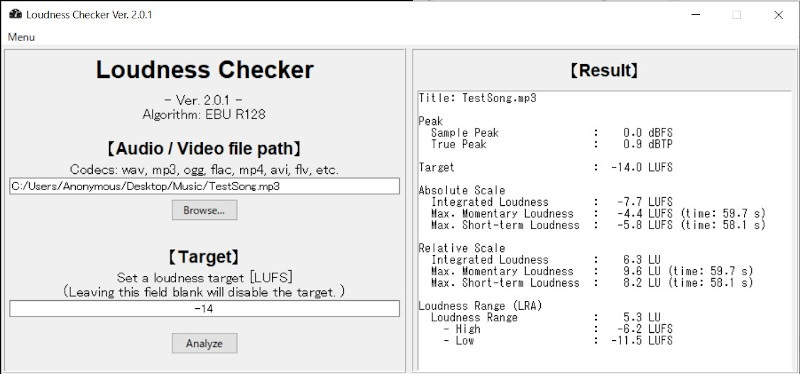
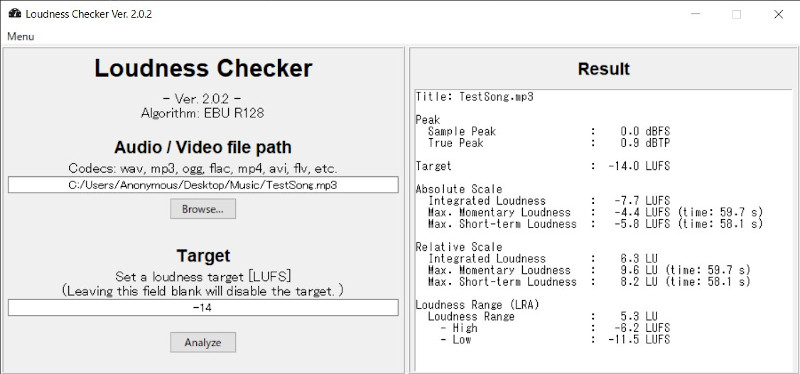
update_V2.0.1 to V2.0.2

diff --git a/src/Help.html b/src/Help.html
@@ -3,17 +3,16 @@
 <head>
     <meta charset="UTF-8">
     <meta name="viewport" content="width=device-width, initial-scale=1.0">
-    <title>How To Use Loudness Checker Ver. 2.0.1</title>
+    <title>How To Use Loudness Checker Ver. 2.0.2</title>
     <link rel="shortcut icon" href="icon.ico">
     <link rel="stylesheet" type="text/css" href="src_html\default.css">
 </head>
 <body>
-    <h1><center>How To Use Loudness Checker Ver. 2.0.1</center></h1>
+    <h1><center>How To Use Loudness Checker Ver. 2.0.2</center></h1>
     <h2>What is Loudness Checker?</h2>
     <br>
     <img src="icon.ico" title="icon">
     <p><b>"Loudness checker"</b> とは、入力された音声/映像のピークやラウドネス（アルゴリズム：EBU R128）を測定するWiodows専用アプリケーションです。</p>
-    <p>本アプリは、プログラミング言語 <b>Python 3.6.4</b>、およびそのグラフ描写ライブラリである <b>Matplotlib 2.2.2</b> によって制作されています。</p>
     <br>
     <p>本アプリはラウドネスの測定に <b><a href="https://www.ffmpeg.org/" target="_blank">FFmpeg</a></b> を必要とします。</p>
     <p>FFmpegとは、the FFmpeg developersが開発したフリーのクロスプラットフォーム・マルチメディアフレームワークであり、動画や音声の再生・記録・デコード・エンコード等の処理が行えます。</p>
@@ -113,6 +112,9 @@
     <h4>・グラフについて</h4>
     <br>
     <img src="src_html\Plot.jpg" title="Plot">
+    <br>
+    <small>Powered by matplotlib 3.1.3</small>
+    <br>
     <p>縦軸がラウドネス[LUFS]、横軸が時間[s]を表しています。</p>
     <p>グラフの色分けは以下の通りです。</p>
     <p><b>- 黒点線: Target</b></p>
@@ -138,4 +140,5 @@
     <br>
 </body>
 <small><center>Copyright (c) 2020 Ippee</center></small>
+<small><center>Released under <a href="https://github.com/ippee/LoudnessChecker/blob/master/LICENSE">the MIT license</a>.</center></small>
 </html>

diff --git a/LoudnessChecker.py b/LoudnessChecker.py
@@ -1,5 +1,20 @@
 # coding: UTF-8
 
+# 
+# LoudnessChecker.py
+#
+# Copyright (c) 2020 Ippee
+#
+# Released under the MIT license.
+# see https://github.com/ippee/LoudnessChecker/blob/master/LICENSE
+# 
+# Python 3.6.4 is:
+# PSF LICENSE AGREEMENT FOR PYTHON 3.6.10 | https://docs.python.org/3.6/license.html
+# 
+# Matplotlib 3.1.3 is:
+# License agreement for matplotlib 3.1.3 | https://matplotlib.org/users/license.html
+# 
+
 import sys
 import re
 import os
@@ -12,53 +27,40 @@ import tkinter.messagebox as messagebox
 import matplotlib.pyplot as plt
 from matplotlib import rcParams
 
-ver = "Ver. 2.0.1"
+ver = "Ver. 2.0.2"
 
 
-# matplotlibのフォント設定（参考: https://qiita.com/yniji/items/3fac25c2ffa316990d0c）
+# matplotlibのフォント設定
 rcParams['font.family'] = 'sans-serif' # フォント設定
-rcParams['font.sans-serif'] = ['Hiragino Maru Gothic Pro', 'Yu Gothic', 'Meirio', 'Takao', 'IPAexGothic', 'IPAPGothic', 'VL PGothic', 'Noto Sans CJK JP']
+rcParams['font.sans-serif'] = ['Yu Gothic', 'Meiryo', 'Arial', 'Hiragino Maru Gothic Pro'] # 万が一、Macで動かそうとする人がいた用に
 
 
-# リソースファイルを参照する関数（参考: https://qiita.com/firedfly/items/f6de5cfb446da4b53eeb）
+# リソースファイルを参照する関数
 def resource_path(relative_path):
     if hasattr(sys, '_MEIPASS'):
         return os.path.join(sys._MEIPASS, relative_path)
-    return os.path.join(os.path.abspath("."), relative_path)
+    return os.path.abspath(relative_path)
 
 
 # 文字列がfloatに変換できるかどうかを判断する関数（入力されたTargetが適切かをチェックするため）
-# 参考: https://hibiki-press.tech/learn_prog/python/isdigit/899
 def is_float(s):
-  try:
-    float(s)
-  except:
-    return False
-  return True
-
-# URLを開く
-def callback(url):
-        webbrowser.open_new(url)
+        try:
+                float(s)
+        except:
+                return False
+        return True
 
 
 ### ログ編集に使う関数 ###
 # キーワードをファイル名に含むファイルの一覧を取得
-# 参考: https://note.nkmk.me/python-os-basename-dirname-split-splitext/
 def searchFile(keyword):
-        dir = os.getcwd()
-        files = []
-        getfiles=[]
-        
-        # 同じディレクトリにある全ファイルの名前を取得
-        for name in os.listdir(dir):
-                if os.path.isfile(os.path.join(dir, name)):
-                        files.append(name)
+        key_re = re.compile(r"(" + keyword + r")") # 正規表現に変換
+        folders = os.listdir(os.getcwd()) # カレントディレクトリにあるファイル全部Get
+        getfiles = []
 
-        # そのうち、キーワードを含むものだけをリストアップ
-        regex = re.compile(r"(" + keyword + r")")
-        for name in files:
-                if regex.search(name):
-                        getfiles.append(name)
+        for x in folders:
+                if key_re.search(x):
+                        getfiles.append(x)
         return getfiles
 
 # ファイルの読み込み
@@ -78,13 +80,13 @@ def checkSize(size, logfile):
         else:
                 return False
 
-# 指定した文字列を消す（参考: https://note.nkmk.me/python-str-replace-translate-re-sub/）
+# 指定した文字列を消す
 def deleteStr(strings, *delList):
         for i in delList:
                 strings = strings.replace(i, "")
         return strings
 
-# 文字列中のアルファベットを消す（参考: 同上）
+# 文字列中のアルファベットを消す
 def deleteAlphabet(strings):
         strings = re.sub(r"[a-z]", "", strings)
         strings = re.sub(r"[A-Z]", "", strings)
@@ -107,8 +109,7 @@ def adjustSpace(str):
 
 
 ### GUI作成 ###
-# 参考: https://suzutaka-programming.com/tkinter-filedialog/
-class FiledialogSampleApp(ttk.Frame):
+class LoudnessCheckerGUI(ttk.Frame):
         def __init__(self, app):
                 super().__init__(app)
                 self.pack()
@@ -122,35 +123,26 @@ class FiledialogSampleApp(ttk.Frame):
 
                 # ウィジェット用変数を定義
                 self.filename = tk.StringVar() # 入力したパスを入れる変数
-                self.target = tk.StringVar() # Relative LoudnessのTargetを入れる変数
+                self.target = tk.StringVar() # Targetを入れる変数
                 self.target.set(self.setting[1])
-                self.setDir = os.getcwd() # カレントディレクトリ取得
+                self.setDir = os.getcwd() # カレントディレクトリ取得、ダイアログの表示に使う
 
 
-                # 画面の分割（参考: https://qiita.com/nanako_ut/items/b5393363b9e21d6342ea）
-                pw_main = tk.PanedWindow(self, sashwidth=4, orient="horizontal")
-                pw_main.pack(expand=True, fill=tk.BOTH, side="top")
+                # 画面の分割
+                pw_main = tk.PanedWindow(self, sashwidth=4, orient="horizontal") # ペインドウインドウ作る
+                pw_main.pack(side="top", fill="both")
 
-                pw_left = tk.PanedWindow(pw_main, orient='vertical')
-                pw_main.add(pw_left)
-
-                pw_right = tk.PanedWindow(pw_main, orient='vertical')
-                pw_main.add(pw_right)
-
-                fm_select = tk.Frame(pw_left, bd=2, relief="ridge")
-                pw_left.add(fm_select)
-
-                fm_result = tk.Frame(pw_right, bd=2, relief="ridge")
-                pw_right.add(fm_result)
+                frm_input = tk.Frame(pw_main, bd=2, relief="ridge") # フレームを使って左右に分割
+                frm_result = tk.Frame(pw_main, bd=2, relief="ridge")
+                pw_main.add(frm_input)
+                pw_main.add(frm_result)
 
 
                 # ウィジェット定義
-                self.filenameEntry = ttk.Entry(fm_select,text="", font=("","10"), width=62, textvariable= self.filename) # パス入力
-                self.targetEntry = ttk.Entry(fm_select,text="", font=("","10"), width=62, justify="center", textvariable= self.target) # Target入力
-                self.analyzeButton = ttk.Button(fm_select,text="Analyze",command = self.startAnalyze) # アナライズボタン
-                self.textbox = tk.Text(fm_result, width=400, height=400) # Resultのテキストボックス
-
-                self.pref = None # 後にPreferencesのウインドウを開くために使う
+                self.filenameEntry = ttk.Entry(frm_input,text="", font=("","10"), width=62, justify="center", textvariable= self.filename) # パス入力
+                self.targetEntry = ttk.Entry(frm_input,text="", font=("","10"), width=62, justify="center", textvariable= self.target) # Target入力
+                self.analyzeButton = ttk.Button(frm_input,text="Analyze",command = self.startAnalyze) # アナライズボタン
+                self.textbox = tk.Text(frm_result, width=400, height=400) # Resultのテキストボックス
 
 
                 # メニューバー作成
@@ -167,34 +159,34 @@ class FiledialogSampleApp(ttk.Frame):
                 
 
                 # ウィジェット配置
-                label_title = ttk.Label(fm_select, text="Loudness Checker", font=("","20","bold")) # タイトル
+                label_title = ttk.Label(frm_input, text="Loudness Checker", font=("","20","bold")) # タイトル
                 label_title.pack(side="top", pady=5)
 
-                label_ex = ttk.Label(fm_select, justify="center",text="- {} -\nAlgorithm: EBU R128\n".format(ver), font=("","12")) # アプリ説明文
+                label_ex = ttk.Label(frm_input, justify="center",text="- {} -\nAlgorithm: EBU R128\n".format(ver), font=("","12")) # アプリ説明文
                 label_ex.pack(side="top")
                 
-                label_path = ttk.Label(fm_select,justify="center",text="【Audio / Video file path】", font=("","14","bold")) # Auidio / Video file path
+                label_path = ttk.Label(frm_input,justify="center",text="Audio / Video file path", font=("","14","bold")) # Auidio / Video file path
                 label_path.pack(side="top")
 
-                label_Codecs = ttk.Label(fm_select,justify="center",text="Codecs: wav, mp3, ogg, flac, mp4, avi, flv, etc.", font=("","12")) # 対応コーデック
+                label_Codecs = ttk.Label(frm_input,justify="center",text="Codecs: wav, mp3, ogg, flac, mp4, avi, flv, etc.", font=("","12")) # 対応コーデック
                 label_Codecs.pack(side="top")
 
                 self.filenameEntry.pack(side="top", padx=5) # パス入力ボックス配置
 
-                openButton = ttk.Button(fm_select,text="Browse…",command = self.openFileDialog) # 参照ボタン
+                openButton = ttk.Button(frm_input,text="Browse…",command = self.openFileDialog) # 参照ボタン
                 openButton.pack(side="top", pady=5)
                 
-                label_target1 = ttk.Label(fm_select,justify="center",text="\n【Target】", font=("","14","bold")) # Target
+                label_target1 = ttk.Label(frm_input,justify="center",text="\nTarget", font=("","14","bold")) # Target
                 label_target1.pack(side="top")
 
-                label_target2 = ttk.Label(fm_select,justify="center",text="Set a loudness target [LUFS]\n(Leaving this field blank will disable the target. )", font=("","12")) # Target
+                label_target2 = ttk.Label(frm_input,justify="center",text="Set a loudness target [LUFS]\n(Leaving this field blank will disable the target. )", font=("","12")) # Target
                 label_target2.pack(side="top")
 
                 self.targetEntry.pack(side="top", padx=5) # Target入力ボックス配置
 
                 self.analyzeButton.pack(side="top", pady=17) # 分析ボタン配置
 
-                label_res = ttk.Label(fm_result,text="【Result】", font=("","14","bold")) # Result
+                label_res = ttk.Label(frm_result,text="Result", font=("","14","bold")) # Result
                 label_res.pack(side="top", pady=10)
                 self.textbox.pack(side="top", padx=5) # Result配置
 
@@ -205,15 +197,15 @@ class FiledialogSampleApp(ttk.Frame):
                 aboutWindow.resizable(0,0)
                 aboutWindow.title("About Loudness Checker")
 
-                appName = ttk.Label(aboutWindow, justify="center", text="【Loudness Checker {}】".format(ver), font=("","14","bold"))
+                appName = ttk.Label(aboutWindow, justify="center", text="Loudness Checker {}".format(ver), font=("","14","bold"))
                 appName.pack(side="top", pady=5)
-                appExplain = ttk.Label(aboutWindow, justify="left", text="\n- Copyright (c) 2020 Ippee\n\n- This application is released under the MIT License, \n   see MIT_LICENSE.txt.\n\n- Loudness Checker uses   Python 3.6.4\n" + " "*37 + "Matplotlib 2.2.2\n", font=("","12"))
+                appExplain = ttk.Label(aboutWindow, justify="left", text="\n- Copyright (c) 2020 Ippee\n\n- This application is released under the MIT License, \n   see MIT_LICENSE.txt.\n\n- Loudness Checker uses   Python 3.6.4\n" + " "*37 + "Matplotlib 3.1.3\n", font=("","12"))
                 appExplain.pack(side="top")
 
-                # リンク追加（参考: https://tutorialmore.com/questions-1687714.htm）
-                link = ttk.Label(aboutWindow, justify="left", text="https://github.com/ippee/LoudnessChecker", foreground="blue", font=("",0,"normal","roman", "underline"))
+                # リンク追加
+                link = ttk.Label(aboutWindow, justify="left", text="https://github.com/ippee/LoudnessChecker", foreground="blue", font=("","12","normal","roman", "underline"))
                 link.pack(side="top")
-                link.bind("<Button-1>", lambda e: callback("https://github.com/ippee/LoudnessChecker"))
+                link.bind("<Button-1>", lambda self: webbrowser.open("https://github.com/ippee/LoudnessChecker"))
 
                 closeButton = ttk.Button(aboutWindow, text="Close", command=aboutWindow.destroy)
                 closeButton.pack(side="top", pady=10)
@@ -230,25 +222,29 @@ class FiledialogSampleApp(ttk.Frame):
                 self.def_target.set(self.setting[1])
 
                 # 設定ウインドウ表示
-                self.pref = tk.Toplevel(self) # Preferencesのウインドウ
-                self.pref.geometry("250x150")
-                self.pref.resizable(0,0)
-                self.pref.title("Preferences")
+                pref = tk.Toplevel(self) # Preferencesのウインドウ
+                pref.geometry("250x150")
+                pref.resizable(0,0)
+                pref.title("Preferences")
 
-                pref_DS = ttk.Label(self.pref, justify="left", text="【Default Settings】", font=("","14","bold"))
+                pref_DS = ttk.Label(pref, justify="left", text="Default Settings", font=("","14","bold"))
                 pref_DS.pack(side="top", padx=5, pady=5)
-                pref_DS_Target_label = ttk.Label(self.pref, justify="center", text="Default target value [LUFS]", font=("","12"))
+                pref_DS_Target_label = ttk.Label(pref, justify="center", text="Default target value [LUFS]", font=("","12"))
                 pref_DS_Target_label.pack(side="top", padx=5, pady=5)
-                pref_DS_Target_entry = ttk.Entry(self.pref,text="", font=("","10"), width=100, justify="center", textvariable=self.def_target)
+                pref_DS_Target_entry = ttk.Entry(pref,text="", font=("","10"), width=100, justify="center", textvariable=self.def_target)
                 pref_DS_Target_entry.pack(side="top", padx=5, pady=5)
 
-                pref_saveButton = ttk.Button(self.pref, text="Save", command = self.saveSettings)
+                pref_saveButton = ttk.Button(pref, text="Save", command = lambda: self.saveSettings(pref))
+                # クリック時に引数ありの関数を実行する場合、"関数名(引数)"と書くと、
+                # この関数の戻り値がcommandに入るため、クリックしなくても関数が勝手に実行されてしまう
+                # → lambdaを使って「引数なしで関数を呼び出す関数」を定義することで解決
+
                 pref_saveButton.pack(side="left", padx=20, pady=5)
-                pref_closeButton = ttk.Button(self.pref, text="Close", command = self.pref.destroy)
+                pref_closeButton = ttk.Button(pref, text="Close", command = pref.destroy)
                 pref_closeButton.pack(side="right", padx=20, pady=5)
         
         # 設定の保存
-        def saveSettings(self):
+        def saveSettings(self, pref):
                 if is_float(self.def_target.get()) == True:
                         target = self.def_target.get()
                 elif self.def_target.get()=="":
@@ -269,7 +265,7 @@ class FiledialogSampleApp(ttk.Frame):
                                 f.write(str(self.setting[i]) + "\n")
                 f.close()
 
-                self.pref.destroy()
+                pref.destroy()
 
                 messagebox.showinfo("Info", "Settings Saved!")
 
@@ -279,7 +275,7 @@ class FiledialogSampleApp(ttk.Frame):
                 file = filedialog.askopenfilename(initialdir = self.setDir)
                 if file == "":
                         return "break"
-                self.setDir = file[0:file.rfind( "/" ) + 1]
+                self.setDir = file[0:file.rfind( "/" ) + 1] # 再びダイアログを開いたとき、さっき選択したファイルの所からスタートする
                 self.filename.set(file)
         
         # アナライズボタンクリック時
@@ -539,6 +535,6 @@ if __name__ == '__main__':
         app.title("Loudness Checker {}".format(ver))
         app.iconbitmap(default=resource_path("src/icon.ico"))
 
-        frame = FiledialogSampleApp(app)
+        frame = LoudnessCheckerGUI(app)
 
         app.mainloop()
